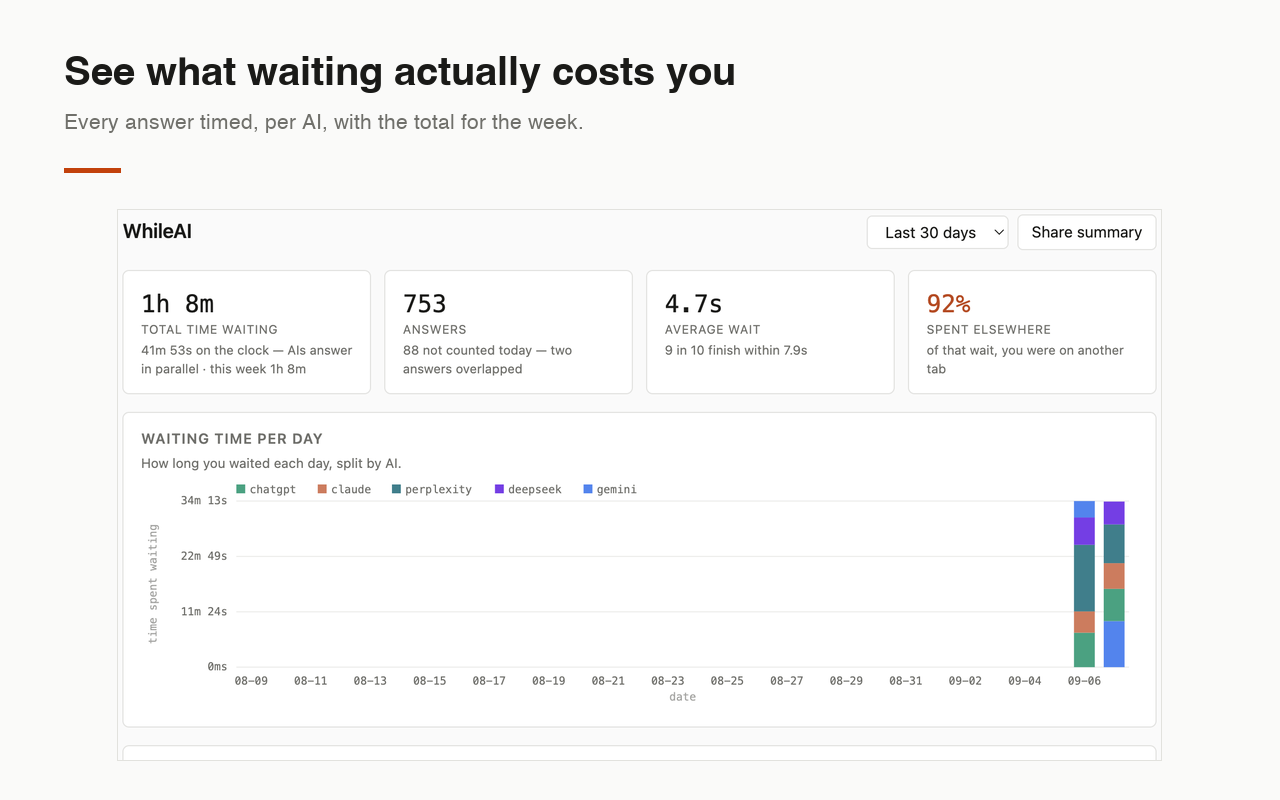
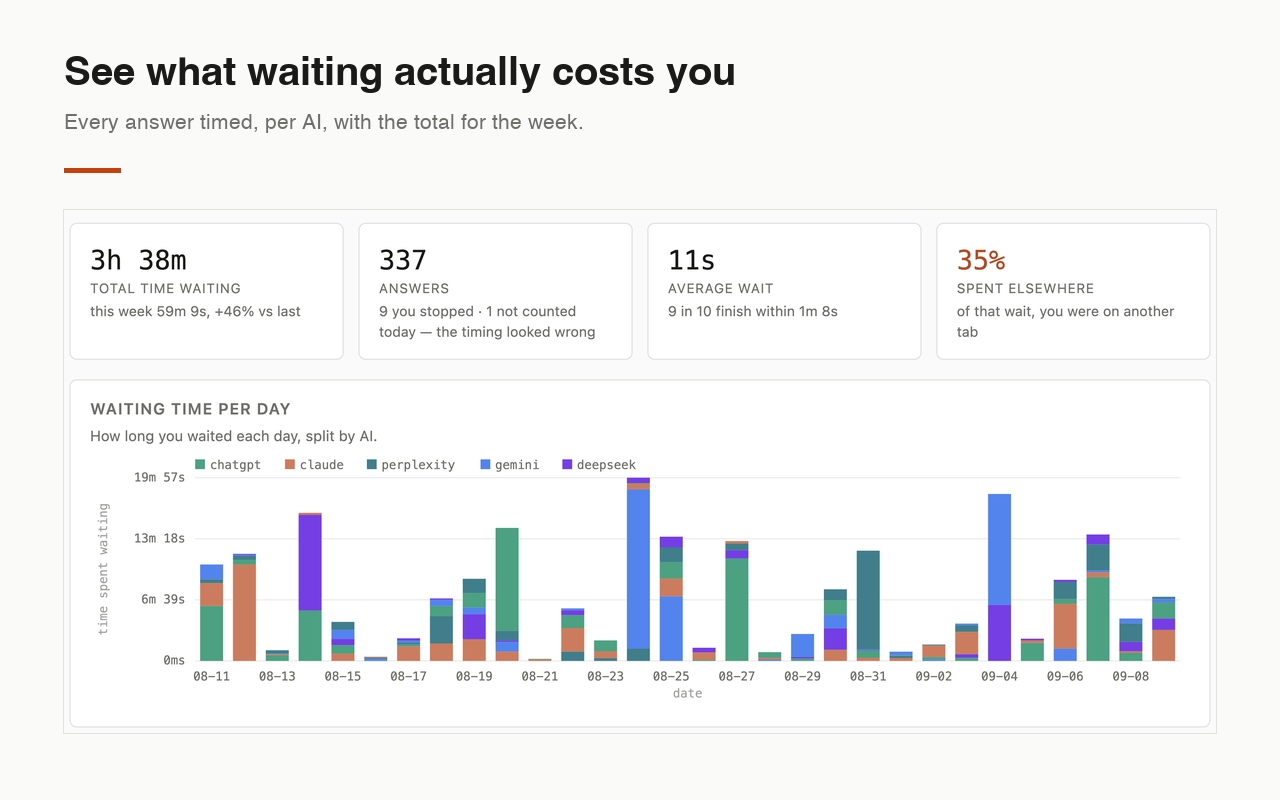
docs: add demo GIF and two more dashboard metric shots
The listing showed two images and no motion, so nothing on the page
demonstrated the one claim the product rests on: that a prompt typed in one
tab arrives in another on its own.

- img/demo.gif: a recording of a real broadcast (ChatGPT -> Claude), not a
  mock-up. Two panes side by side, because a single-pane recording cannot show
  a prompt landing somewhere it was not typed.
- img/platforms.png, img/attention.png: the per-AI table and the attention
  metrics, cropped from a full-page capture at 4x and downscaled, so the
  dashboard is represented by more than its summary strip.
- store-assets/screenshot-5,6: the same two sections as store frames.
- seed-demo-data: generate all five providers rather than two. A screenshot of
  a five-AI product that shows two undersells what it is meant to demonstrate.

scripts/make-demo-gif.mjs pairs frames by capture order and writes one
duration per frame; pairing the two sides independently showed the target
answering before the prompt was sent, and a short duration list silently
truncated the GIF.

diff --git a/index.html b/index.html
@@ -70,6 +70,12 @@
   <img src="img/fanout.png" alt="A diagram: you type in any one of the five AI sites, and the prompt fans out to ChatGPT, Claude, Perplexity, Gemini and DeepSeek." width="1600" height="1000" />
 </figure>
 
+<figure class="shot wide">
+  <img src="img/demo.gif" alt="A recording of the extension in use: a prompt typed in ChatGPT appears on its own in a Claude tab, and both answer." width="1300" height="496" loading="lazy" />
+  <figcaption>Not a mock-up — a recording of the extension running. The prompt
+  was typed only in the left tab.</figcaption>
+</figure>
+
 <figure class="shot panel">
   <img src="img/popup.png" alt="The whileAI panel: five AI services listed, each with a toggle, above waiting-time statistics." width="930" height="1772" />
   <figcaption>Pick which AIs get the prompt. The panel also shows what you have
@@ -101,6 +107,18 @@
 <figure class="shot wide">
   <img src="img/dashboard.png" alt="The whileAI dashboard: total time waiting, number of answers, average wait, and a chart of waiting time per day split by AI." width="1800" height="1125" />
   <figcaption>The dashboard. Free for everyone, and exportable.</figcaption>
+</figure>
+
+<figure class="shot wide">
+  <img src="img/platforms.png" alt="A per-AI table: responses, total wait, typical wait, longest wait and how often the tab was left, for ChatGPT, Claude, DeepSeek, Gemini and Perplexity." width="1800" height="772" loading="lazy" />
+  <figcaption>Which AI is actually slower, per answer and in total — plus your
+  ten longest waits.</figcaption>
+</figure>
+
+<figure class="shot wide">
+  <img src="img/attention.png" alt="Attention while waiting: times you left the tab, time spent on another tab, time the tab was in the background, and how many responses you waited out without leaving." width="1800" height="601" loading="lazy" />
+  <figcaption>What waiting does to your attention — how often you tabbed away,
+  and what that adds up to.</figcaption>
 </figure>
 
 <h2 id="privacy">Privacy</h2>
